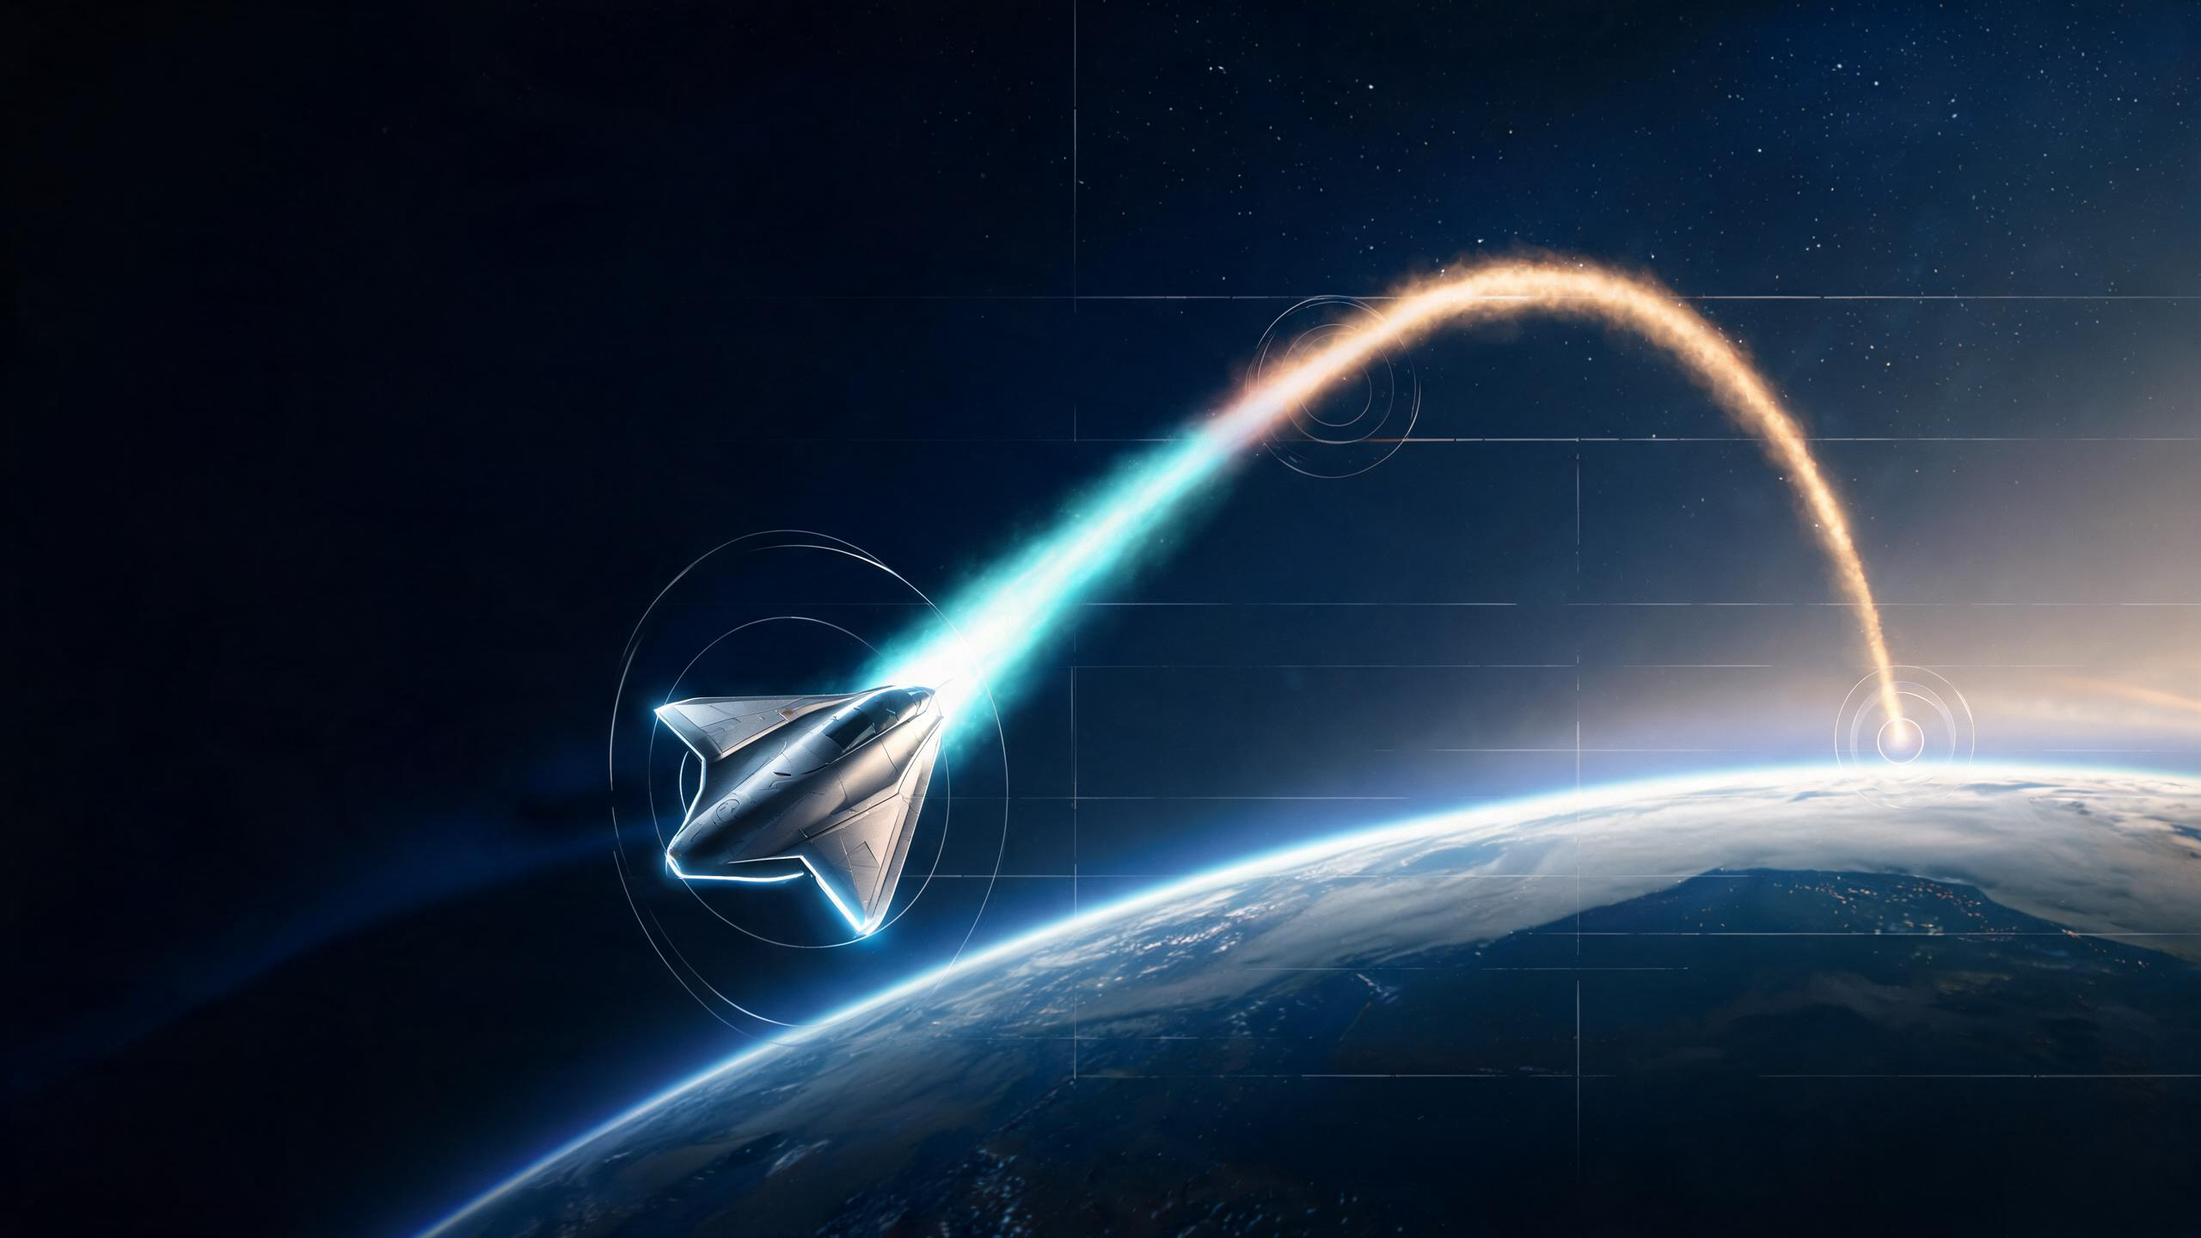
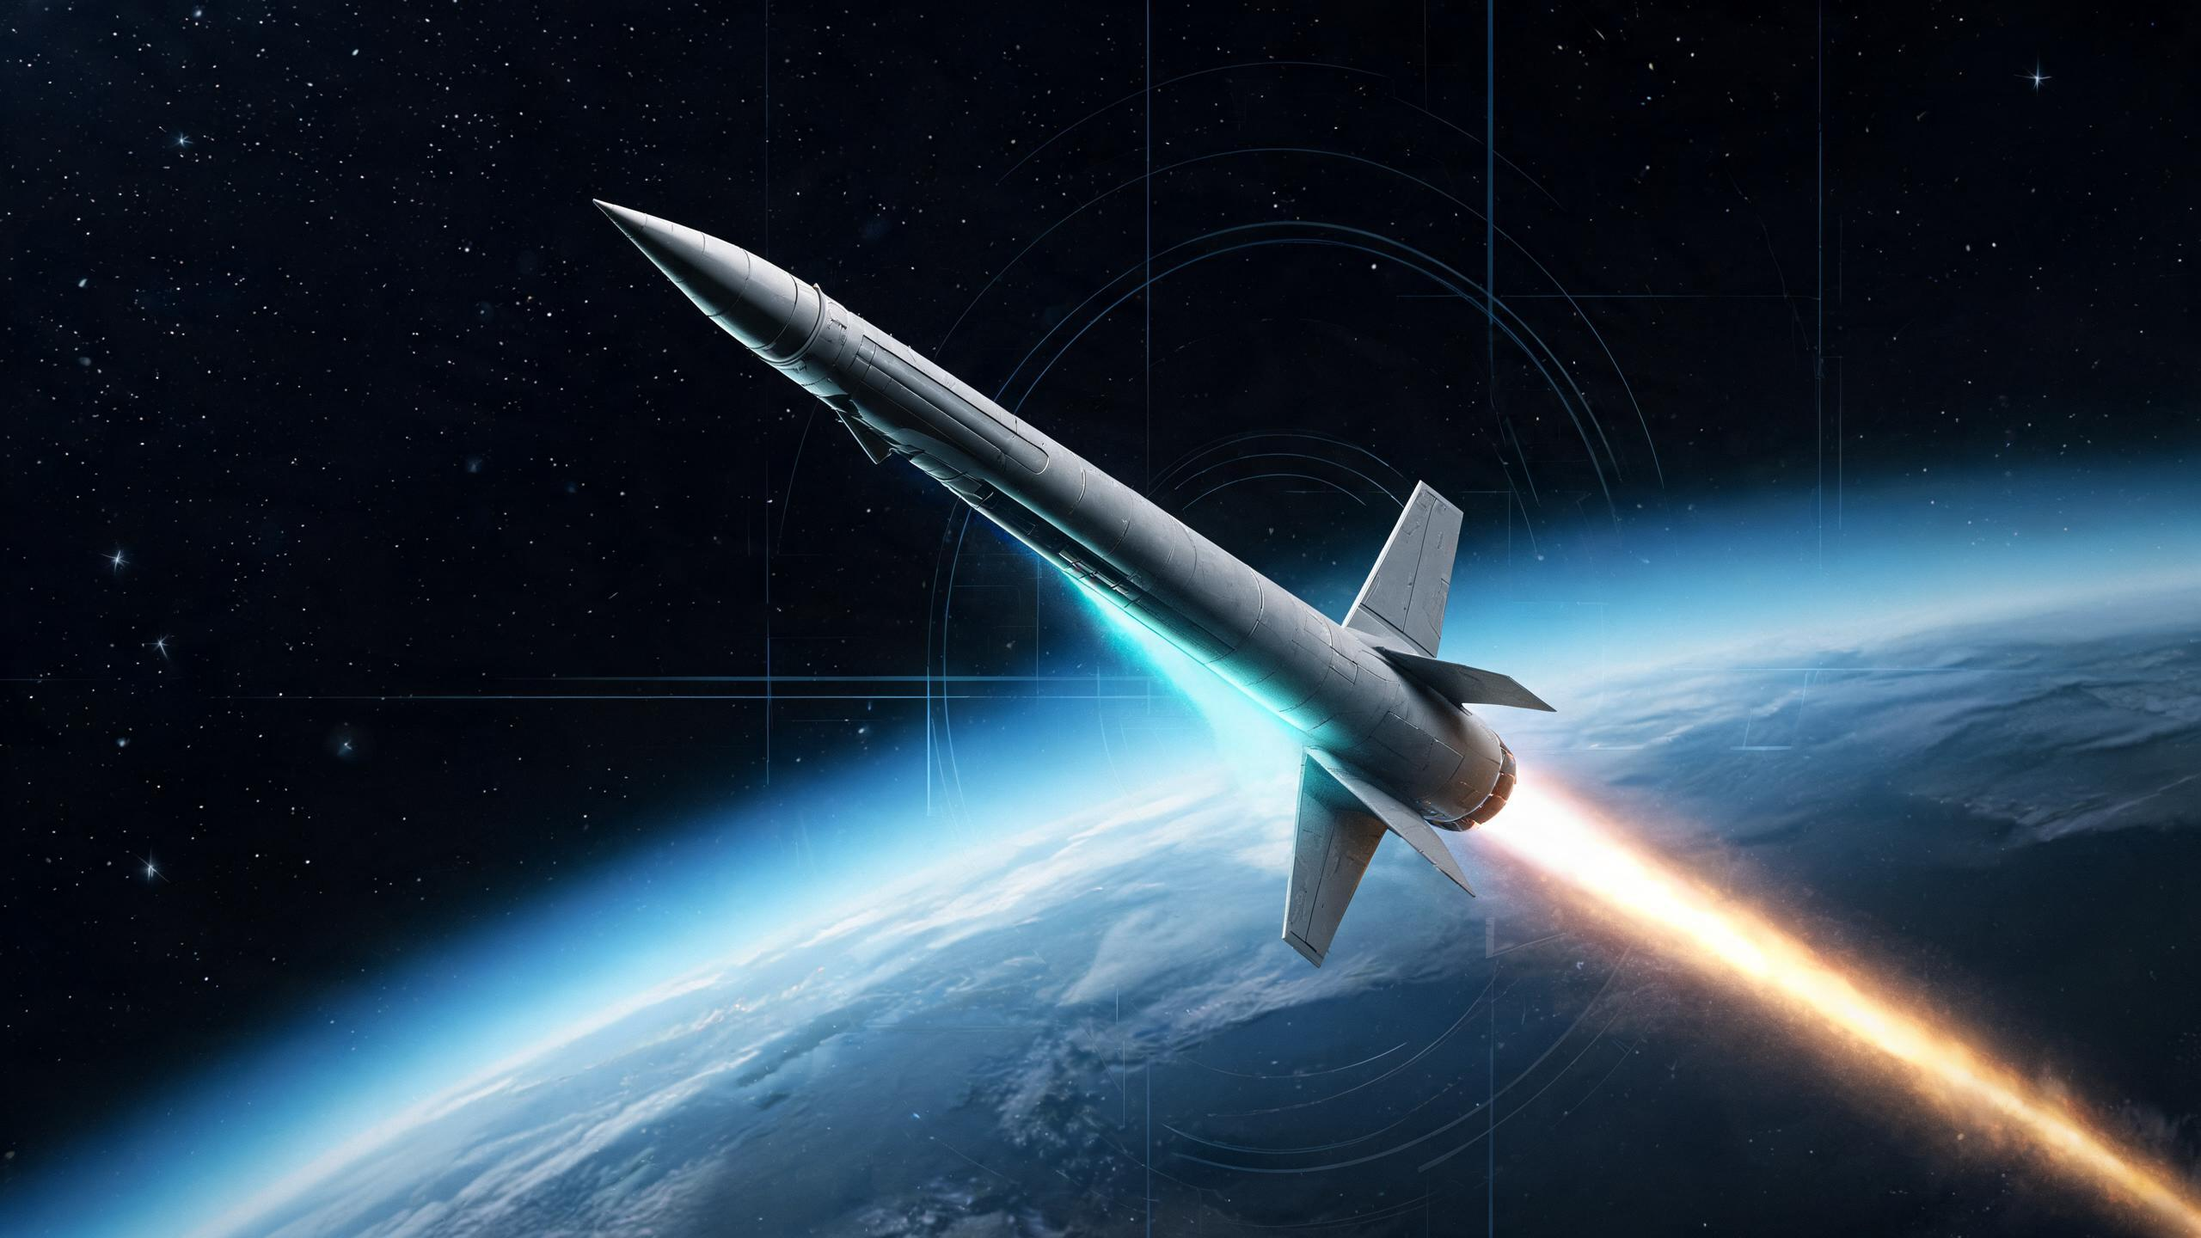
Make landing page bilingual and replace hero with accurate missile rendering

diff --git a/index.html b/index.html
@@ -21,19 +21,29 @@
   a{color:inherit;text-decoration:none}
   .wrap{max-width:var(--maxw);margin:0 auto;padding:0 24px}
 
+  html[lang="zh-CN"] .en{display:none}
+  html[lang="en"] .zh{display:none}
+
+  .lang-switch{position:fixed;top:18px;right:22px;z-index:20}
+  .lang-switch button{display:inline-flex;align-items:center;gap:7px;cursor:pointer;
+    padding:9px 16px;border-radius:999px;font:600 12.5px/1 var(--font);letter-spacing:.04em;
+    color:#f5f5f7;background:rgba(255,255,255,.10);border:1px solid rgba(255,255,255,.28);
+    backdrop-filter:blur(14px);-webkit-backdrop-filter:blur(14px);transition:.2s}
+  .lang-switch button:hover{background:rgba(255,255,255,.20)}
+
   /* hero */
   .hero{background:#000;color:#f5f5f7;padding:96px 0 72px;position:relative;overflow:hidden}
-  .hero::before{content:"";position:absolute;inset:0;background:url("assets/hero.jpg") center 42%/cover no-repeat;
-    opacity:.55;filter:saturate(1.05)}
+  .hero::before{content:"";position:absolute;inset:0;background:url("assets/hero.jpg") center 46%/cover no-repeat;
+    opacity:.62;filter:saturate(1.05)}
   .hero::after{content:"";position:absolute;inset:0;pointer-events:none;
-    background:linear-gradient(90deg,rgba(0,0,0,.92) 0%,rgba(0,0,0,.72) 46%,rgba(0,0,0,.30) 100%),
-               radial-gradient(900px 380px at 78% 8%,rgba(0,113,227,.28),transparent 62%)}
+    background:linear-gradient(90deg,rgba(0,0,0,.94) 0%,rgba(0,0,0,.78) 44%,rgba(0,0,0,.18) 100%),
+               radial-gradient(900px 380px at 78% 8%,rgba(0,113,227,.26),transparent 62%)}
   .hero .wrap{position:relative;z-index:1}
   .eyebrow{font:600 12px/1 var(--mono);letter-spacing:.16em;text-transform:uppercase;color:#86868b;margin-bottom:22px}
   .eyebrow b{color:var(--accent2);font-weight:600}
   h1{font-size:clamp(38px,5.4vw,64px);line-height:1.08;letter-spacing:-.022em;margin:0 0 18px;font-weight:700}
   h1 em{font-style:normal;background:linear-gradient(92deg,#4fb3ff,#30b0c7);-webkit-background-clip:text;background-clip:text;color:transparent}
-  .lede{max-width:740px;font-size:clamp(16px,1.6vw,20px);color:#a1a1a6;margin:0 0 34px}
+  .lede{max-width:740px;font-size:clamp(16px,1.6vw,20px);color:#b4b4ba;margin:0 0 34px}
   .cta{display:flex;flex-wrap:wrap;gap:12px}
   .btn{display:inline-flex;align-items:center;gap:8px;border-radius:999px;padding:13px 24px;
        font-size:15px;font-weight:600;transition:.2s ease;border:1px solid transparent}
@@ -47,7 +57,7 @@
            border-top:1px solid rgba(255,255,255,.12);margin-top:64px;border-radius:16px;overflow:hidden}
   .metric{background:#000;padding:22px 20px}
   .metric .v{font:700 26px/1.1 var(--font);letter-spacing:-.02em}
-  .metric .k{margin-top:6px;font-size:12.5px;color:#86868b;letter-spacing:.02em}
+  .metric .k{margin-top:6px;font-size:12.5px;color:#9a9aa0}
 
   /* sections */
   section{padding:76px 0}
@@ -89,26 +99,51 @@
   }
   @media(max-width:620px){
     .cards,.modules{grid-template-columns:1fr}
-    .hero{padding:72px 0 54px}
+    .hero{padding:76px 0 54px}
   }
 </style>
 </head>
 <body>
 
+<div class="lang-switch">
+  <button id="langToggle" type="button" aria-label="Switch language">EN</button>
+</div>
+
 <header class="hero">
   <div class="wrap">
-    <div class="eyebrow">2000 km class · 6DOF · <b>end-to-end simulation</b></div>
-    <h1>高超声速拦截器<br><em>六自由度仿真</em></h1>
-    <p class="lede">垂直冷发射、固体助推 + 超声速冲压组合循环动力、GNSS/INS 组合导航、雷达导引头、Bezier 中制导与 ZEM/APN 末制导、三回路姿态控制与蒙特卡洛打靶——纯 Python/NumPy 实现的模块化、可测试、可并行仿真。</p>
+    <div class="eyebrow">
+      <span class="zh">2000 km 级 · 6DOF · <b>端到端仿真</b></span>
+      <span class="en">2000 km class · 6DOF · <b>end-to-end simulation</b></span>
+    </div>
+    <h1>
+      <span class="zh">高超声速拦截器<br><em>六自由度仿真</em></span>
+      <span class="en">Hypersonic Interceptor<br><em>6DOF Simulation</em></span>
+    </h1>
+    <p class="lede">
+      <span class="zh">垂直冷发射、固体助推 + 超声速冲压组合循环动力、GNSS/INS 组合导航、雷达导引头、Bezier 中制导与 ZEM/APN 末制导、三回路姿态控制与蒙特卡洛打靶——纯 Python/NumPy 实现的模块化、可测试、可并行仿真。</span>
+      <span class="en">Vertical cold launch, solid boost plus supersonic ramjet combined cycle, GNSS/INS navigation, radar seeker, Bezier midcourse and ZEM/APN terminal guidance, three-loop attitude control and Monte-Carlo campaigns — a modular, testable and parallel simulation in pure Python/NumPy.</span>
+    </p>
     <div class="cta">
-      <a class="btn primary" href="#reports">查看仿真报告</a>
-      <a class="btn ghost" href="https://github.com/PaoShou-China/missile-interception" target="_blank" rel="noopener">GitHub 源码</a>
+      <a class="btn primary" href="#reports"><span class="zh">查看仿真报告</span><span class="en">View reports</span></a>
+      <a class="btn ghost" href="https://github.com/PaoShou-China/missile-interception" target="_blank" rel="noopener"><span class="zh">GitHub 源码</span><span class="en">Source on GitHub</span></a>
     </div>
     <div class="metrics">
-      <div class="metric"><div class="v">6DOF</div><div class="k">刚体动力学 + 姿态闭环</div></div>
-      <div class="metric"><div class="v">5 ms</div><div class="k">助推 / 末段积分步长</div></div>
-      <div class="metric"><div class="v">2000 km</div><div class="k">级射程工程外推</div></div>
-      <div class="metric"><div class="v">Monte-Carlo</div><div class="k">批量打靶与灵敏度分析</div></div>
+      <div class="metric">
+        <div class="v">6DOF</div>
+        <div class="k"><span class="zh">刚体动力学 + 姿态闭环</span><span class="en">Rigid-body dynamics + attitude loop</span></div>
+      </div>
+      <div class="metric">
+        <div class="v">5 ms</div>
+        <div class="k"><span class="zh">助推 / 末段积分步长</span><span class="en">Boost / terminal integration step</span></div>
+      </div>
+      <div class="metric">
+        <div class="v">2000 km</div>
+        <div class="k"><span class="zh">级射程工程外推</span><span class="en">Engineering-extrapolated range</span></div>
+      </div>
+      <div class="metric">
+        <div class="v">Monte-Carlo</div>
+        <div class="k"><span class="zh">批量打靶与灵敏度分析</span><span class="en">Batch campaigns and sensitivity</span></div>
+      </div>
     </div>
   </div>
 </header>
@@ -116,27 +151,27 @@
 <section id="reports">
   <div class="wrap">
     <div class="sec-head">
-      <h2>在线报告</h2>
-      <p>三份可直接在浏览器中打开的交互式报告，均由仿真输出数据生成。</p>
+      <h2><span class="zh">在线报告</span><span class="en">Online reports</span></h2>
+      <p><span class="zh">三份可直接在浏览器中打开的交互式报告，均由仿真输出数据生成。</span><span class="en">Three interactive reports generated from simulation output, open directly in the browser.</span></p>
     </div>
     <div class="cards">
       <a class="card" href="missile-intercept-overview/missile-intercept-overview.html">
         <div class="tag">Overview</div>
-        <h3>项目概览</h3>
-        <p>体系结构与全流程总览：弹道剖面、能量管理、制导交接、控制回路与关键指标的交互式展示。</p>
-        <div class="go">打开报告 <span>→</span></div>
+        <h3><span class="zh">项目概览</span><span class="en">Project overview</span></h3>
+        <p><span class="zh">体系结构与全流程总览：弹道剖面、能量管理、制导交接、控制回路与关键指标的交互式展示。</span><span class="en">Architecture and end-to-end walk-through: trajectory profile, energy management, handover, control loops and key metrics.</span></p>
+        <div class="go"><span class="zh">打开报告</span><span class="en">Open report</span> <span>→</span></div>
       </a>
       <a class="card" href="intercept-report/intercept-report.html">
         <div class="tag">Analysis</div>
-        <h3>拦截分析报告</h3>
-        <p>2000 km 级 6DOF 仿真分析：高度/马赫数剖面、视线角速度、脱靶量与蒙特卡洛统计分布。</p>
-        <div class="go">打开报告 <span>→</span></div>
+        <h3><span class="zh">拦截分析报告</span><span class="en">Intercept analysis</span></h3>
+        <p><span class="zh">2000 km 级 6DOF 仿真分析：高度/马赫数剖面、视线角速度、脱靶量与蒙特卡洛统计分布。</span><span class="en">2000 km-class 6DOF analysis: altitude/Mach profile, LOS rates, miss distance and Monte-Carlo dispersion.</span></p>
+        <div class="go"><span class="zh">打开报告</span><span class="en">Open report</span> <span>→</span></div>
       </a>
       <a class="card" href="test-report/missile_interceptor_test_report.html">
         <div class="tag">Verification</div>
-        <h3>全流程测试报告</h3>
-        <p>分系统与全链路测试汇总：气动锚点、导航、导引头、制导交接、控制律与数值一致性校验。</p>
-        <div class="go">打开报告 <span>→</span></div>
+        <h3><span class="zh">全流程测试报告</span><span class="en">Full-flow test report</span></h3>
+        <p><span class="zh">分系统与全链路测试汇总：气动锚点、导航、导引头、制导交接、控制律与数值一致性校验。</span><span class="en">Subsystem and end-to-end tests: aero anchors, navigation, seeker, handover, control laws and numeric consistency.</span></p>
+        <div class="go"><span class="zh">打开报告</span><span class="en">Open report</span> <span>→</span></div>
       </a>
     </div>
   </div>
@@ -145,16 +180,34 @@
 <section style="padding-top:0">
   <div class="wrap">
     <div class="sec-head">
-      <h2>仿真链路</h2>
-      <p>从发射到交会，每个环节都有独立模块与对应测试。</p>
+      <h2><span class="zh">仿真链路</span><span class="en">Simulation pipeline</span></h2>
+      <p><span class="zh">从发射到交会，每个环节都有独立模块与对应测试。</span><span class="en">From launch to intercept, every stage has its own module and tests.</span></p>
     </div>
     <div class="modules">
-      <div class="module"><h4><span class="dot"></span>组合动力</h4><p>固体助推接力超声速冲压，推力与耗量随高度、马赫数调度。</p></div>
-      <div class="module"><h4><span class="dot"></span>导航与导引</h4><p>GNSS/INS 组合导航、雷达导引头量测、目标跟踪与滤波。</p></div>
-      <div class="module"><h4><span class="dot"></span>制导与交接</h4><p>Bezier 中制导、ZEM/APN 末制导、多约束交接班管理。</p></div>
-      <div class="module"><h4><span class="dot"></span>姿态控制</h4><p>三回路自动驾驶仪、舵机限幅与速率约束、增益调度。</p></div>
-      <div class="module"><h4><span class="dot"></span>多速率积分</h4><p>不同飞行段自适应步长与事件处理，支持收敛性外推。</p></div>
-      <div class="module"><h4><span class="dot"></span>验证体系</h4><p>pytest 测试集、气动锚点校核、数值一致性与性能校验。</p></div>
+      <div class="module">
+        <h4><span class="dot"></span><span class="zh">组合动力</span><span class="en">Combined cycle</span></h4>
+        <p><span class="zh">固体助推接力超声速冲压，推力与耗量随高度、马赫数调度。</span><span class="en">Solid booster hands over to a supersonic ramjet, with thrust and flow scheduled by altitude and Mach.</span></p>
+      </div>
+      <div class="module">
+        <h4><span class="dot"></span><span class="zh">导航与导引</span><span class="en">Navigation &amp; seeker</span></h4>
+        <p><span class="zh">GNSS/INS 组合导航、雷达导引头量测、目标跟踪与滤波。</span><span class="en">GNSS/INS integration, radar seeker measurements, target tracking and filtering.</span></p>
+      </div>
+      <div class="module">
+        <h4><span class="dot"></span><span class="zh">制导与交接</span><span class="en">Guidance &amp; handover</span></h4>
+        <p><span class="zh">Bezier 中制导、ZEM/APN 末制导、多约束交接班管理。</span><span class="en">Bezier midcourse, ZEM/APN terminal guidance and multi-constraint handover management.</span></p>
+      </div>
+      <div class="module">
+        <h4><span class="dot"></span><span class="zh">姿态控制</span><span class="en">Attitude control</span></h4>
+        <p><span class="zh">三回路自动驾驶仪、舵机限幅与速率约束、增益调度。</span><span class="en">Three-loop autopilot, actuator deflection and rate limits, gain scheduling.</span></p>
+      </div>
+      <div class="module">
+        <h4><span class="dot"></span><span class="zh">多速率积分</span><span class="en">Multi-rate integration</span></h4>
+        <p><span class="zh">不同飞行段自适应步长与事件处理，支持收敛性外推。</span><span class="en">Stage-dependent adaptive steps and event handling, with convergence extrapolation.</span></p>
+      </div>
+      <div class="module">
+        <h4><span class="dot"></span><span class="zh">验证体系</span><span class="en">Verification suite</span></h4>
+        <p><span class="zh">pytest 测试集、气动锚点校核、数值一致性与性能校验。</span><span class="en">pytest suite, aerodynamic anchor checks, numeric consistency and performance validation.</span></p>
+      </div>
     </div>
   </div>
 </section>
@@ -162,21 +215,21 @@
 <section style="padding-top:0">
   <div class="wrap">
     <div class="sec-head">
-      <h2>快速开始</h2>
-      <p>克隆仓库后在 <code>missile_intercept/</code> 下运行。</p>
+      <h2><span class="zh">快速开始</span><span class="en">Quick start</span></h2>
+      <p><span class="zh">克隆仓库后在 <code>missile_intercept/</code> 下运行。</span><span class="en">Clone the repository and run from <code>missile_intercept/</code>.</span></p>
     </div>
     <div class="run">
       <span class="path">$ missile_intercept/</span>
-      <pre><span class="c"># 安装依赖</span>
+      <pre><span class="c"># install dependencies / 安装依赖</span>
 python -m pip install -r requirements.txt
 
-<span class="c"># 单发仿真（输出遥测 CSV 与图表）</span>
+<span class="c"># single run / 单发仿真（输出遥测 CSV 与图表）</span>
 python main.py
 
-<span class="c"># 蒙特卡洛打靶</span>
+<span class="c"># Monte-Carlo campaign / 蒙特卡洛打靶</span>
 python batch.py --cases 50 --workers 8 --seed 2026
 
-<span class="c"># 测试与数值验证</span>
+<span class="c"># tests and verification / 测试与数值验证</span>
 python -m pytest -n auto
 python verification.py</pre>
     </div>
@@ -186,12 +239,45 @@ python verification.py</pre>
 <footer>
   <div class="wrap">
     <div class="row">
-      <div>2000 km 级高超声速拦截器 · 6DOF 端到端仿真</div>
+      <div>
+        <span class="zh">2000 km 级高超声速拦截器 · 6DOF 端到端仿真</span>
+        <span class="en">2000 km-class Hypersonic Interceptor · 6DOF end-to-end simulation</span>
+      </div>
       <div><a href="https://github.com/PaoShou-China/missile-interception">github.com/PaoShou-China/missile-interception</a></div>
     </div>
-    <p class="disc">免责声明：公开的 2000 km 级拦截器数据有限，模型中的几何、质量、惯量、气动与动力参数为公开资料的工程外推，仅用于算法、软件与体系验证，不代表任何现役装备的实测数据或性能。</p>
+    <p class="disc">
+      <span class="zh">免责声明：公开的 2000 km 级拦截器数据有限，模型中的几何、质量、惯量、气动与动力参数为公开资料的工程外推，仅用于算法、软件与体系验证，不代表任何现役装备的实测数据或性能。</span>
+      <span class="en">Disclaimer: public data for a 2000 km-class interceptor are scarce. Geometry, mass, inertia, aerodynamic and propulsion parameters are an engineering extrapolation from public sources, intended for algorithm, software and architecture verification only — not measured data or performance of any fielded system.</span>
+    </p>
   </div>
 </footer>
+
+<script>
+(function () {
+  var root = document.documentElement;
+  var btn = document.getElementById('langToggle');
+  var titles = {
+    'zh-CN': '2000 km 级高超声速拦截器 · 6DOF 仿真',
+    'en': '2000 km-class Hypersonic Interceptor · 6DOF Simulation'
+  };
+
+  function apply(lang) {
+    root.lang = lang;
+    btn.textContent = lang === 'en' ? '中文' : 'EN';
+    document.title = titles[lang];
+    try { localStorage.setItem('lang', lang); } catch (e) {}
+  }
+
+  btn.addEventListener('click', function () {
+    apply(root.lang === 'en' ? 'zh-CN' : 'en');
+  });
+
+  var saved = null;
+  try { saved = localStorage.getItem('lang'); } catch (e) {}
+  var urlLang = new URLSearchParams(location.search).get('lang');
+  apply(urlLang === 'en' || urlLang === 'zh' ? (urlLang === 'en' ? 'en' : 'zh-CN') : (saved || 'zh-CN'));
+})();
+</script>
 
 </body>
 </html>
